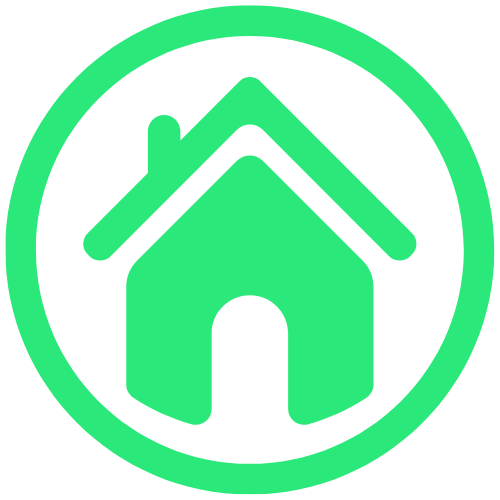
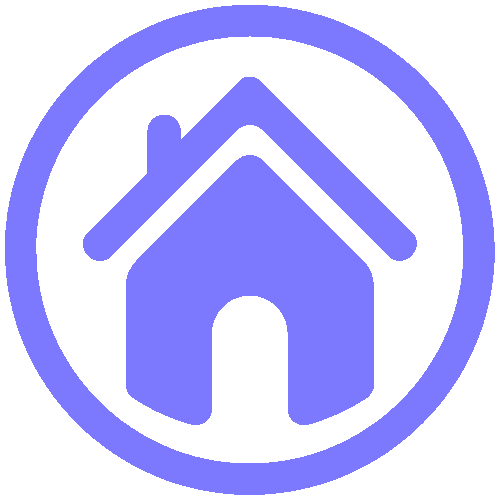
Committing changes and new files

diff --git a/src/App.css b/src/App.css
@@ -30,8 +30,8 @@ h1 {
   letter-spacing: 0.9px;
   background: linear-gradient(
     90deg,
-    rgb(24, 236, 113) 0%,
-    rgba(151, 216, 178, 1) 100%
+    rgb(125, 121, 255) 0%,
+    rgb(187, 186, 224) 100%
   );
   background-clip: text;
   -webkit-background-clip: text;
@@ -95,7 +95,7 @@ h1 {
 
 .empty h2 {
   font-size: 1.25rem;
-  color: #2ae97a;
+  color: #7d79ff;
   font-family: var(--font-raleway);
 }
 
@@ -126,7 +126,7 @@ h1 {
   width: 100%;
   opacity: 0;
   top: 0;
-  color: #2ae97a;
+  color: #7d79ff;
 }
 
 .movie:hover {
@@ -166,7 +166,7 @@ h1 {
 .movie div:nth-of-type(3) h3 {
   margin-top: 5px;
   font-family: "Roboto Slab", serif;
-  color: #67ec9f;
+  color: #7d79ff;
 }
 
 .movie:hover div:nth-of-type(2) {
@@ -202,7 +202,7 @@ h1 {
 .movies-section h1,
 .series-section h1 {
   font-size: 2rem; /* Adjust font size as needed */
-  color: #67ec9f; /* Adjust color as needed */
+  color: #7d79ff; /* Adjust color as needed */
   text-align: center; /* Center text horizontally */
   margin-bottom: 1rem; /* Space below the heading */
 }
@@ -269,7 +269,7 @@ h1 {
   padding: 15px;
   margin: 10px 0;
   background-color: #343739;
-  color: #2ae97a;
+  color: #7d79ff;
   font-family: var(--font-raleway);
   font-size: 1.1rem;
   text-transform: uppercase;
@@ -284,7 +284,7 @@ h1 {
 
 /* Button hover effect */
 .sidebar-btn:hover {
-  background-color: #2ae97a;
+  background-color: #7d79ff;
   color: #1f2123;
   box-shadow: 0px 8px 15px rgba(0, 0, 0, 0.1);
 }
@@ -356,7 +356,7 @@ h1 {
   flex: 1;
   height: 100%;
   font-family: var(--font-raleway);
-  color: #2ae97a;
+  color: #7d79ff;
   background: transparent;
   border: none;
   font-size: 0.9rem;
@@ -372,7 +372,7 @@ h1 {
 /* Button hover effect */
 .bottom-bar-btn:hover {
   background-color: #343739;
-  color: #2ae97a;
+  color: #7d79ff;
 }
 
 /* Parallax-style background */
@@ -429,7 +429,7 @@ h1 {
 }
 
 .movie-info strong {
-  color: #2ae97a;
+  color: #7d79ff;
 }
 
 /* Media Query for Smaller Screens */
@@ -524,7 +524,7 @@ h1 {
   font-size: 2rem; /* Adjust size as needed */
   margin: 0; /* Remove default margin */
   font-family: var(--font-raleway); /* Ensure consistent font family */
-  color: #67ec9f; /* Ensure text color matches your design */
+  color: #7d79ff; /* Ensure text color matches your design */
 }
 
 .settings-page {
